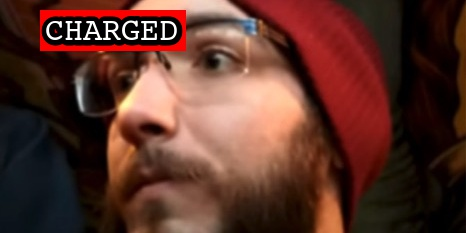
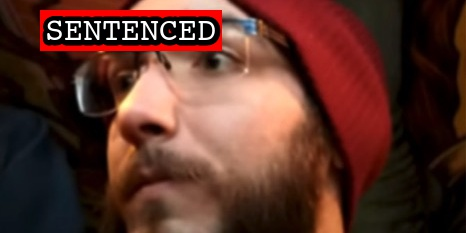
Bratjan sentence

Changed region(s): [[0.0901, 0.03, 0.4807, 0.2403]]

diff --git a/docs/_suspects/garret-miller.md b/docs/_suspects/garret-miller.md
@@ -13,6 +13,8 @@ sentenced:
 dismissed:
 deceased:
 plea_hearing:
+trial_date: 2022-12-07
+trial_type: Jury
 sentencing:
 age: 34
 occupation:
@@ -25,7 +27,7 @@ courtroom:
 courthouse:
 raid:
 perpwalk:
-quote: 'Nah we stormed it'
+quote: "Nah we stormed it"
 title: Garret Miller charged on January 20, 2021
 description: Click for latest case details. Suspects innocent until proven guilty.
 author: seditiontrack
@@ -36,6 +38,7 @@ videos:
 charges:
 sentence:
 ---
+
 - [News Report](https://www.nbcnewyork.com/news/local/texas-man-charged-in-capitol-riot-made-online-threat-to-assassinate-aoc/2845503/)
 - [Statement of Facts](https://www.justice.gov/opa/page/file/1359541/download)
 - [Complaint](https://www.justice.gov/opa/page/file/1359601/download)

diff --git a/docs/_suspects/frank-bratjan.md b/docs/_suspects/frank-bratjan.md
@@ -4,18 +4,19 @@ lastName: Bratjan
 hashtag: Insider0285
 aka:
 residence: New York
-status: Charged
+status: Sentenced
 date: 2022-06-09
 charged: 2022-06-09
 indicted:
 convicted:
 acquitted:
-sentenced:
+sentenced: 2022-09-14
 dismissed:
 deceased:
 plea_hearing: 2022-09-14
 trial_date:
-sentencing:
+trial_type:
+sentencing: 2022-09-14
 age:
 occupation: Postal worker
 affiliations:
@@ -37,6 +38,9 @@ caseNumber: 1:22-mj-134
 videos:
 charges:
 sentence:
+  - 6 months probation
+  - $1500 fine
+  - $500 restitution
 ---
 
 - [News Report](https://www.thedailybeast.com/usps-employee-and-van-life-enthusiast-frank-joseph-bratjan-jr-charged-in-capitol-riot)
